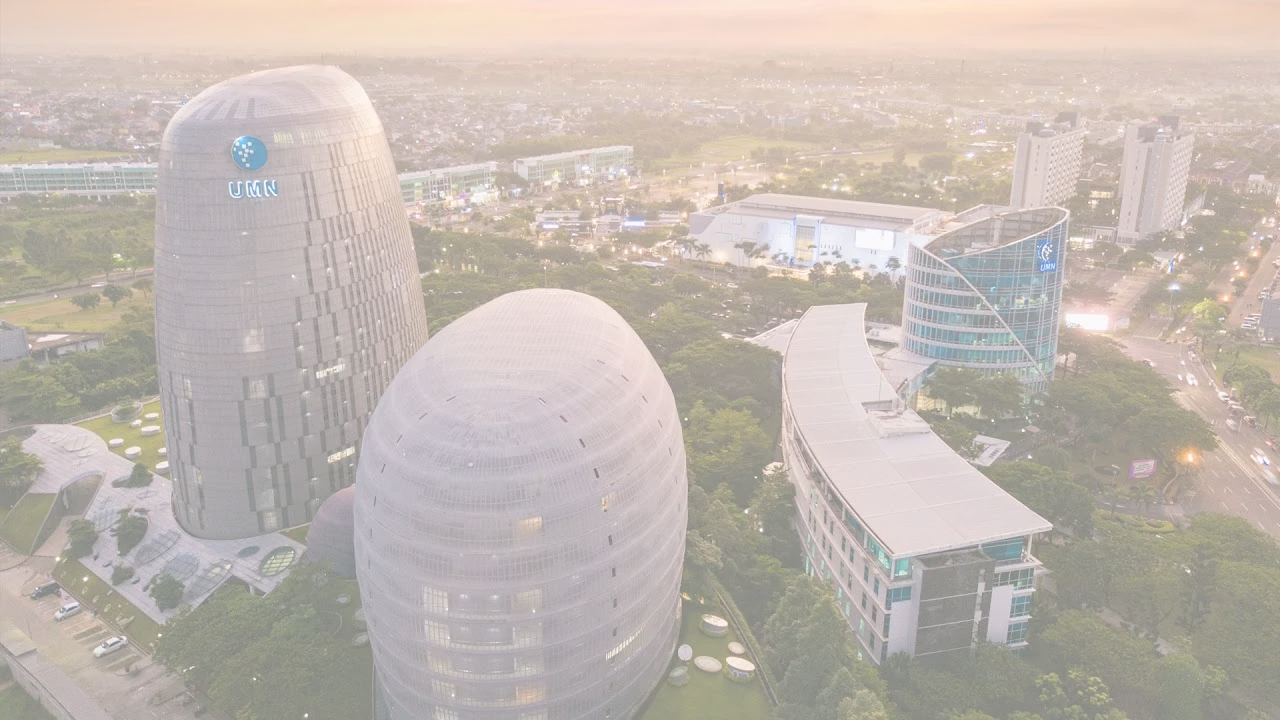
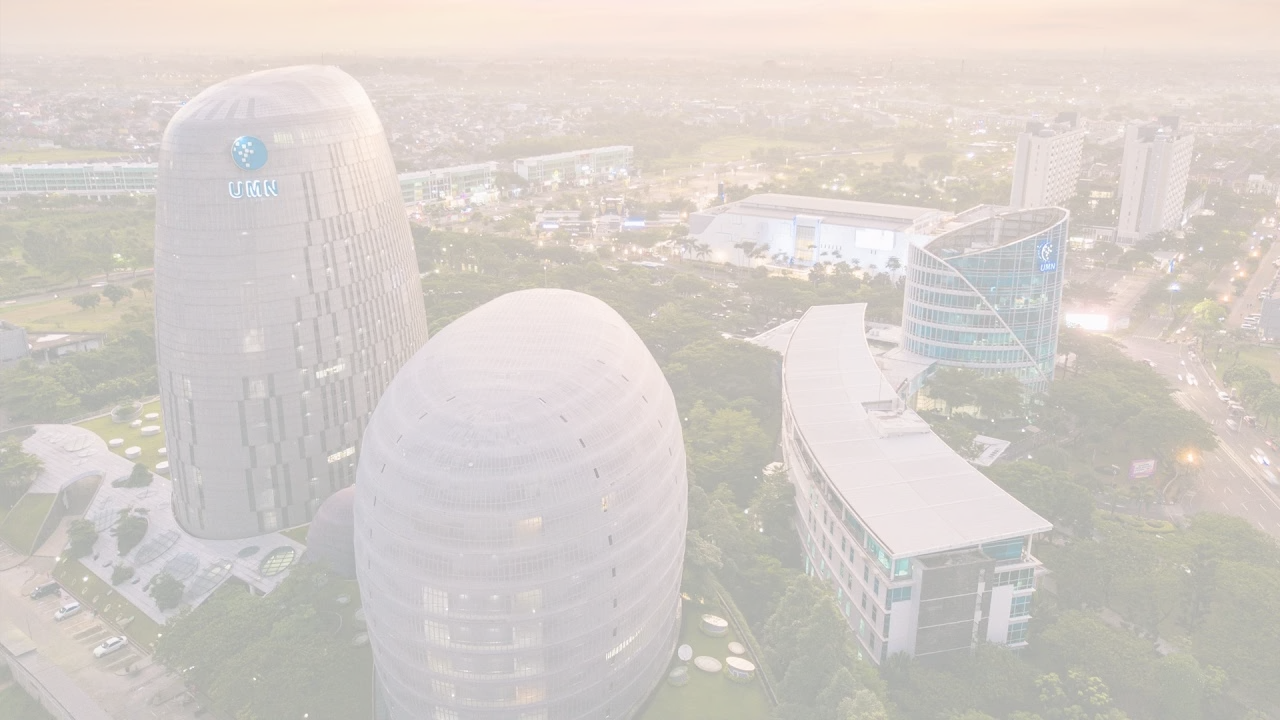
Background fix

diff --git a/src/styles/stylesHome.css b/src/styles/stylesHome.css
@@ -1,29 +1,43 @@
 body {
-    background: linear-gradient(rgba(255, 255, 255, 0), rgba(255, 255, 255, 0)), url(../resources/unknown.png);
+    background: url(../resources/unknown.png);
     background-position: center;
     background-attachment: fixed;
     height: 100%;
-
-}
-
-@media screen and (max-width: 579px) {
+  }
+  
+  @media screen and (max-width: 579px) {
     #judul {
-        font-size: calc(5px + 7vw);
+      font-size: calc(5px + 7vw);
     }
-
+  
     #logo {
-        width: 20vw;
+      width: 20vw;
     }
-}
-
-/* For small screen user so that won't need to scroll down to view player list */
-@media screen and (max-width:487.5px) {
-    .myFlexContainer2 :nth-child(1) {order: 5;}
-    .myFlexContainer2 :nth-child(2) {order: 1;}
-    .myFlexContainer2 :nth-child(3) {order: 2;}
-    .myFlexContainer2 :nth-child(4) {order: 3;}
-    .myFlexContainer2 :nth-child(5) {order: 4;}
-
-    .myFlexContainer :nth-child(1) {order: 1;}
-    .myFlexContainer :nth-child(2) {order: 2;}
-}
+  }
+  
+  /* For small screen user so that won't need to scroll down to view player list */
+  @media screen and (max-width: 487.5px) {
+    .myFlexContainer2 :nth-child(1) {
+      order: 5;
+    }
+    .myFlexContainer2 :nth-child(2) {
+      order: 1;
+    }
+    .myFlexContainer2 :nth-child(3) {
+      order: 2;
+    }
+    .myFlexContainer2 :nth-child(4) {
+      order: 3;
+    }
+    .myFlexContainer2 :nth-child(5) {
+      order: 4;
+    }
+  
+    .myFlexContainer :nth-child(1) {
+      order: 1;
+    }
+    .myFlexContainer :nth-child(2) {
+      order: 2;
+    }
+  }
+  

diff --git a/src/scripts/home.jsx b/src/scripts/home.jsx
@@ -1,6 +1,7 @@
 import "../styles/stylesHome.css";
 import dogLogo from "../resources/spike_logo.png";
-import React, { useState, useRef } from "react";
+import unknown from "../resources/unknown.png";
+import React, { useState, useRef, useEffect } from "react";
 import { useNavigate } from "react-router-dom";
 
 export default function Home() {
@@ -26,7 +27,7 @@ export default function Home() {
       }
     }
     setName("");
-    setPlayers([...players, { name: name, score: 0}]);
+    setPlayers([...players, { name: name, score: 0 }]);
     console.log(players);
   }
 
@@ -37,9 +38,15 @@ export default function Home() {
     }
 
     navigate("/game", {
-      state: { players }
+      state: { players },
     });
   }
+
+  useEffect(() => {
+    // Reset everything back
+    $("body").css("background", "url(" + unknown + ")");
+    $("body").css("background-attachment", "fixed");
+  }, []);
 
   return (
     <div className="container-fluid mt-4">
@@ -75,7 +82,9 @@ export default function Home() {
 
         <div id="player" className="d-flex align-items-center playerDIV">
           <p style={{ paddingBlock: "auto" }} id="insertplayer">
-            {players.length < 5 ? "Insert Player #" + (players.length + 1) : "Game Full !!!"}
+            {players.length < 5
+              ? "Insert Player #" + (players.length + 1)
+              : "Game Full !!!"}
           </p>
         </div>
 

diff --git a/src/scripts/game.jsx b/src/scripts/game.jsx
@@ -678,20 +678,22 @@ export default function Game() {
     let date = new Date();
     let hour = date.getHours();
     // Change background according to time
-    if (hour >= 18) {
+    if (hour >= 18 || hour < 5) {
       console.log("umnMalam");
-      $("body").css("background", "");
+      $("body").css("background", "none");
+      $("body").css("background", "url(" + umnMalam + ")");
     } else if (hour >= 11) {
       console.log("umnSiang");
-      $("body").css("background", { umnSiang });
+      $("body").css("background", "none");
+      $("body").css("background", "url(" + umnSiang + ")");
     } else if (hour >= 5) {
       console.log("umnPagi");
-      $("body").css("background", { umnPagi });
+      $("body").css("background", "none");
+      $("body").css("background", "url(" + umnPagi + ")");
     } else {
-      console.log("umnMalam");
-      $("body").removeAttr("style");
-      $("body").css("background", umnMalam);
+      console.log("Hour is outside range.");
     }
+    $("body").css("background-attachment", "fixed");
 
     // Fetch weather
     const urlWeather =

diff --git a/src/styles/stylesGame.css b/src/styles/stylesGame.css
@@ -1,6 +1,4 @@
 body {
-  background: linear-gradient(rgba(255, 255, 255, 0), rgba(255, 255, 255, 0.1)),
-    url(../resources/unknown.png);
   background-position: center;
   background-attachment: fixed;
   background-blend-mode: soft-light;
